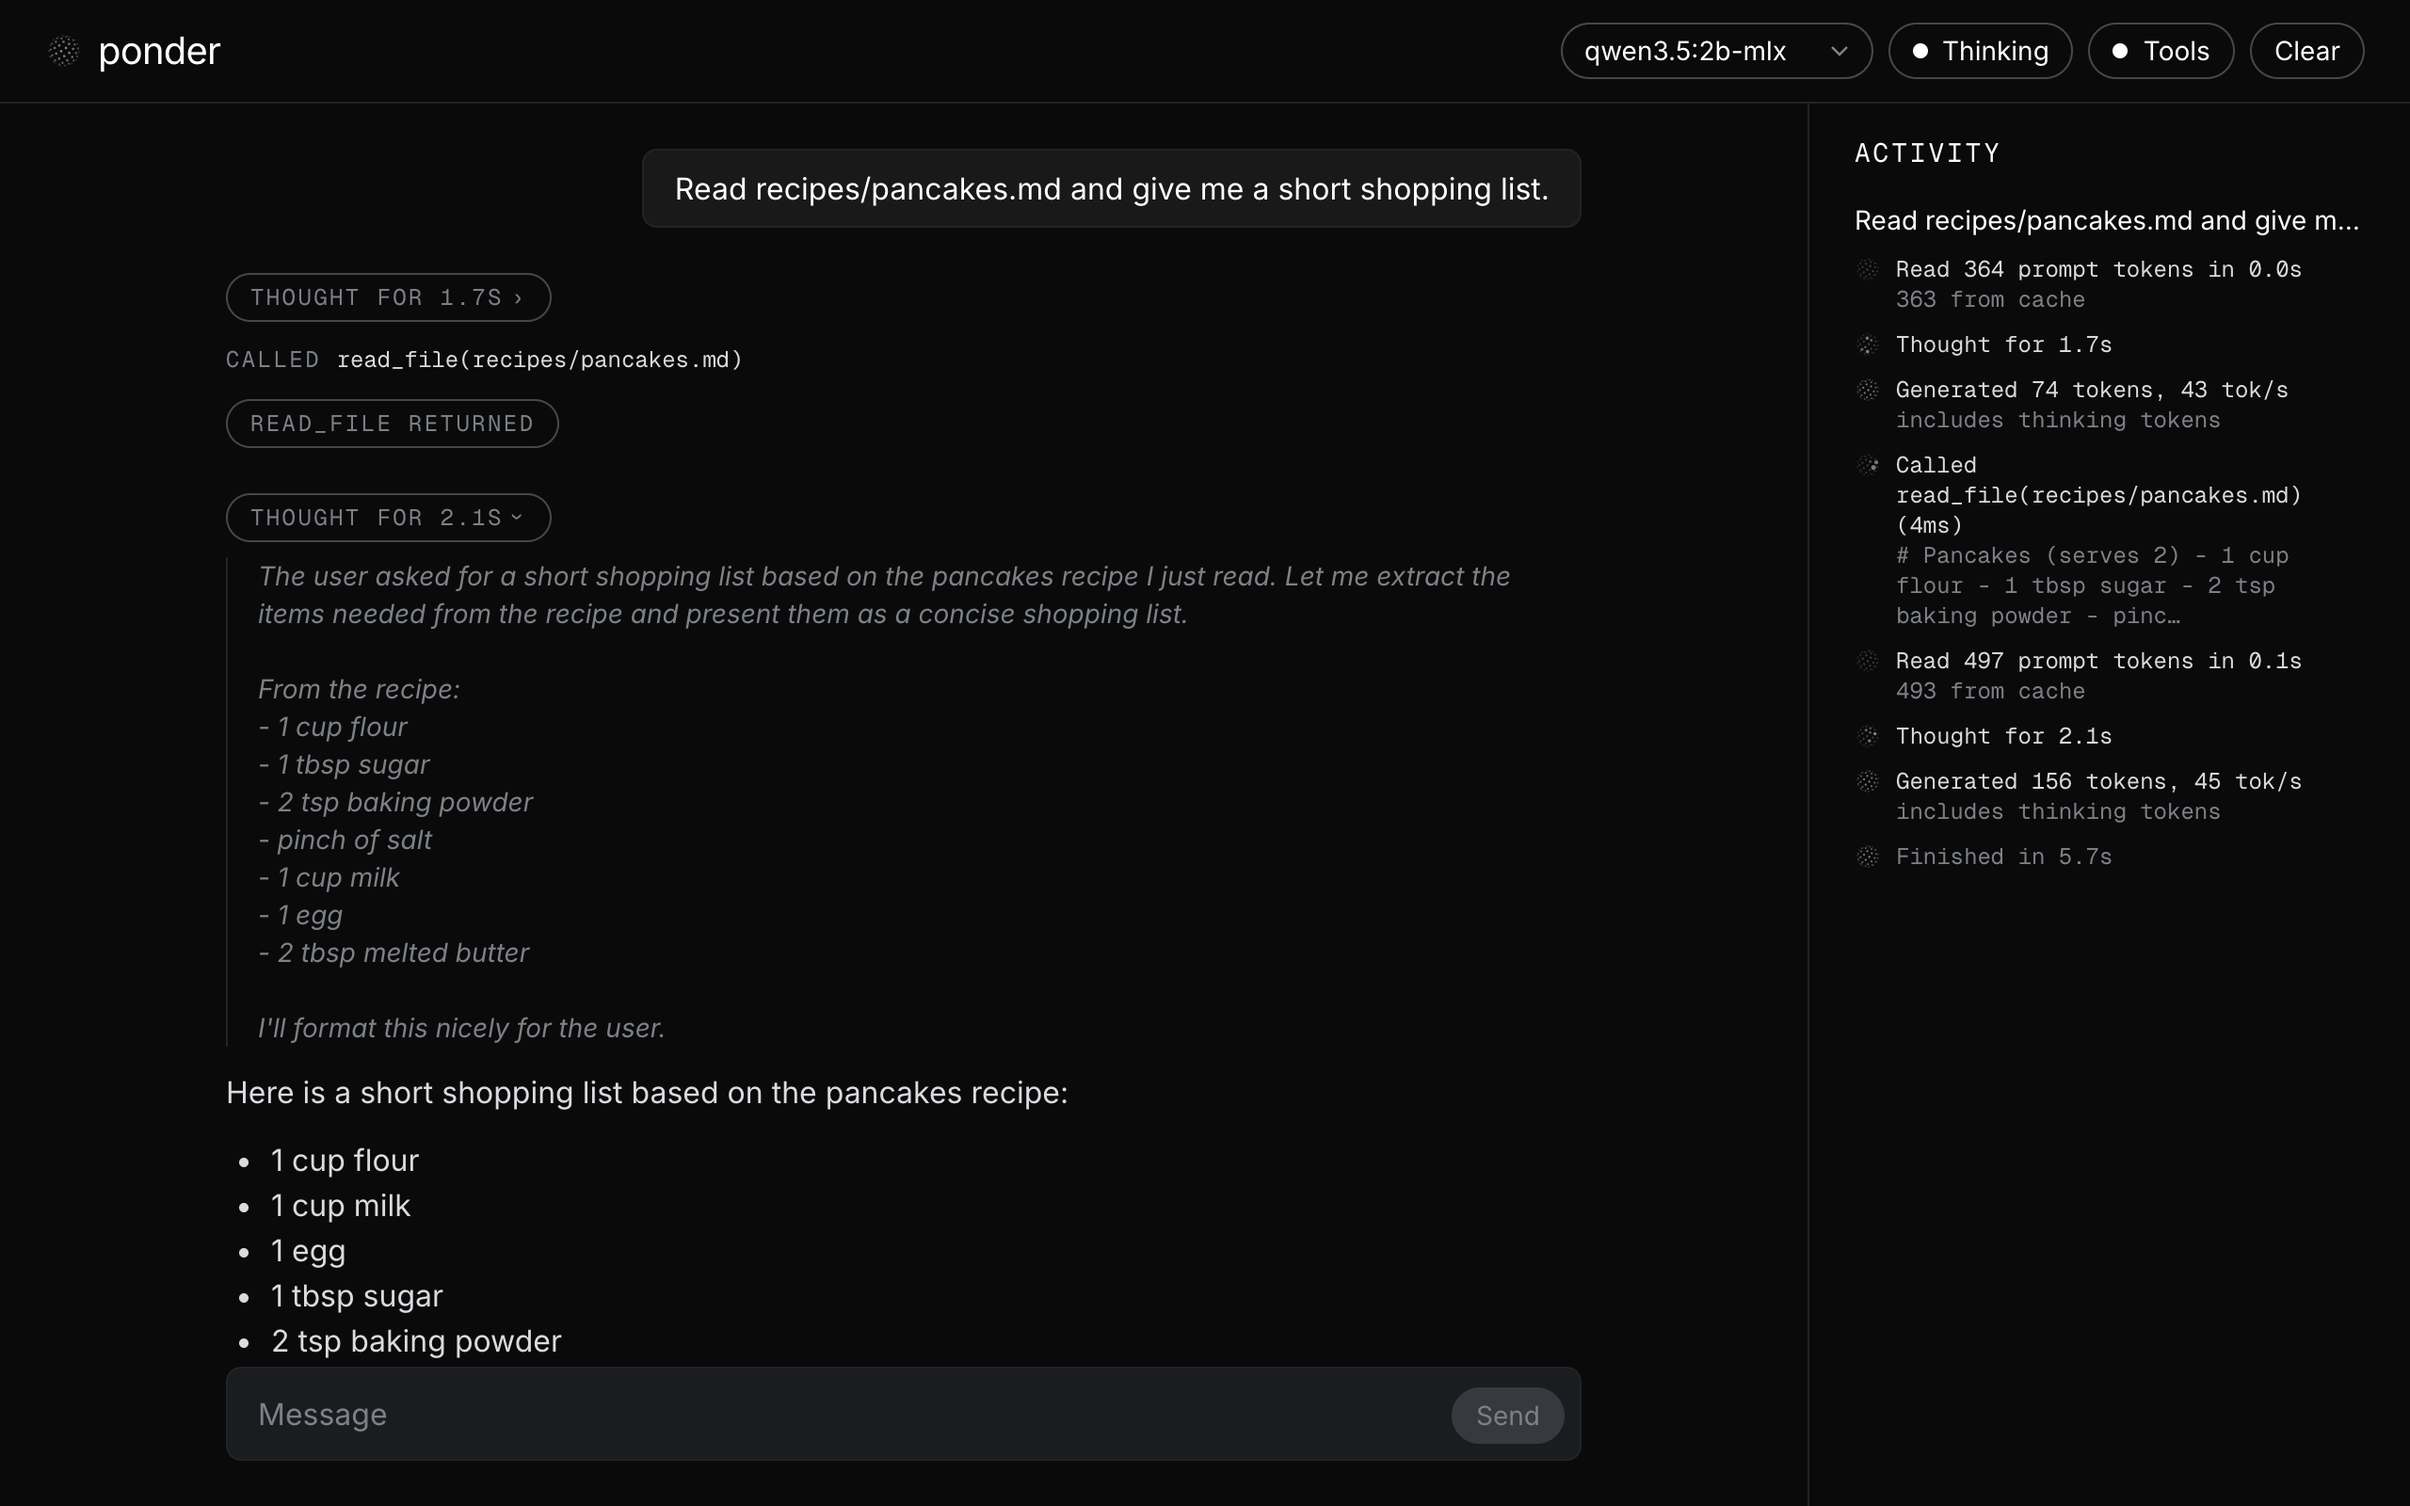
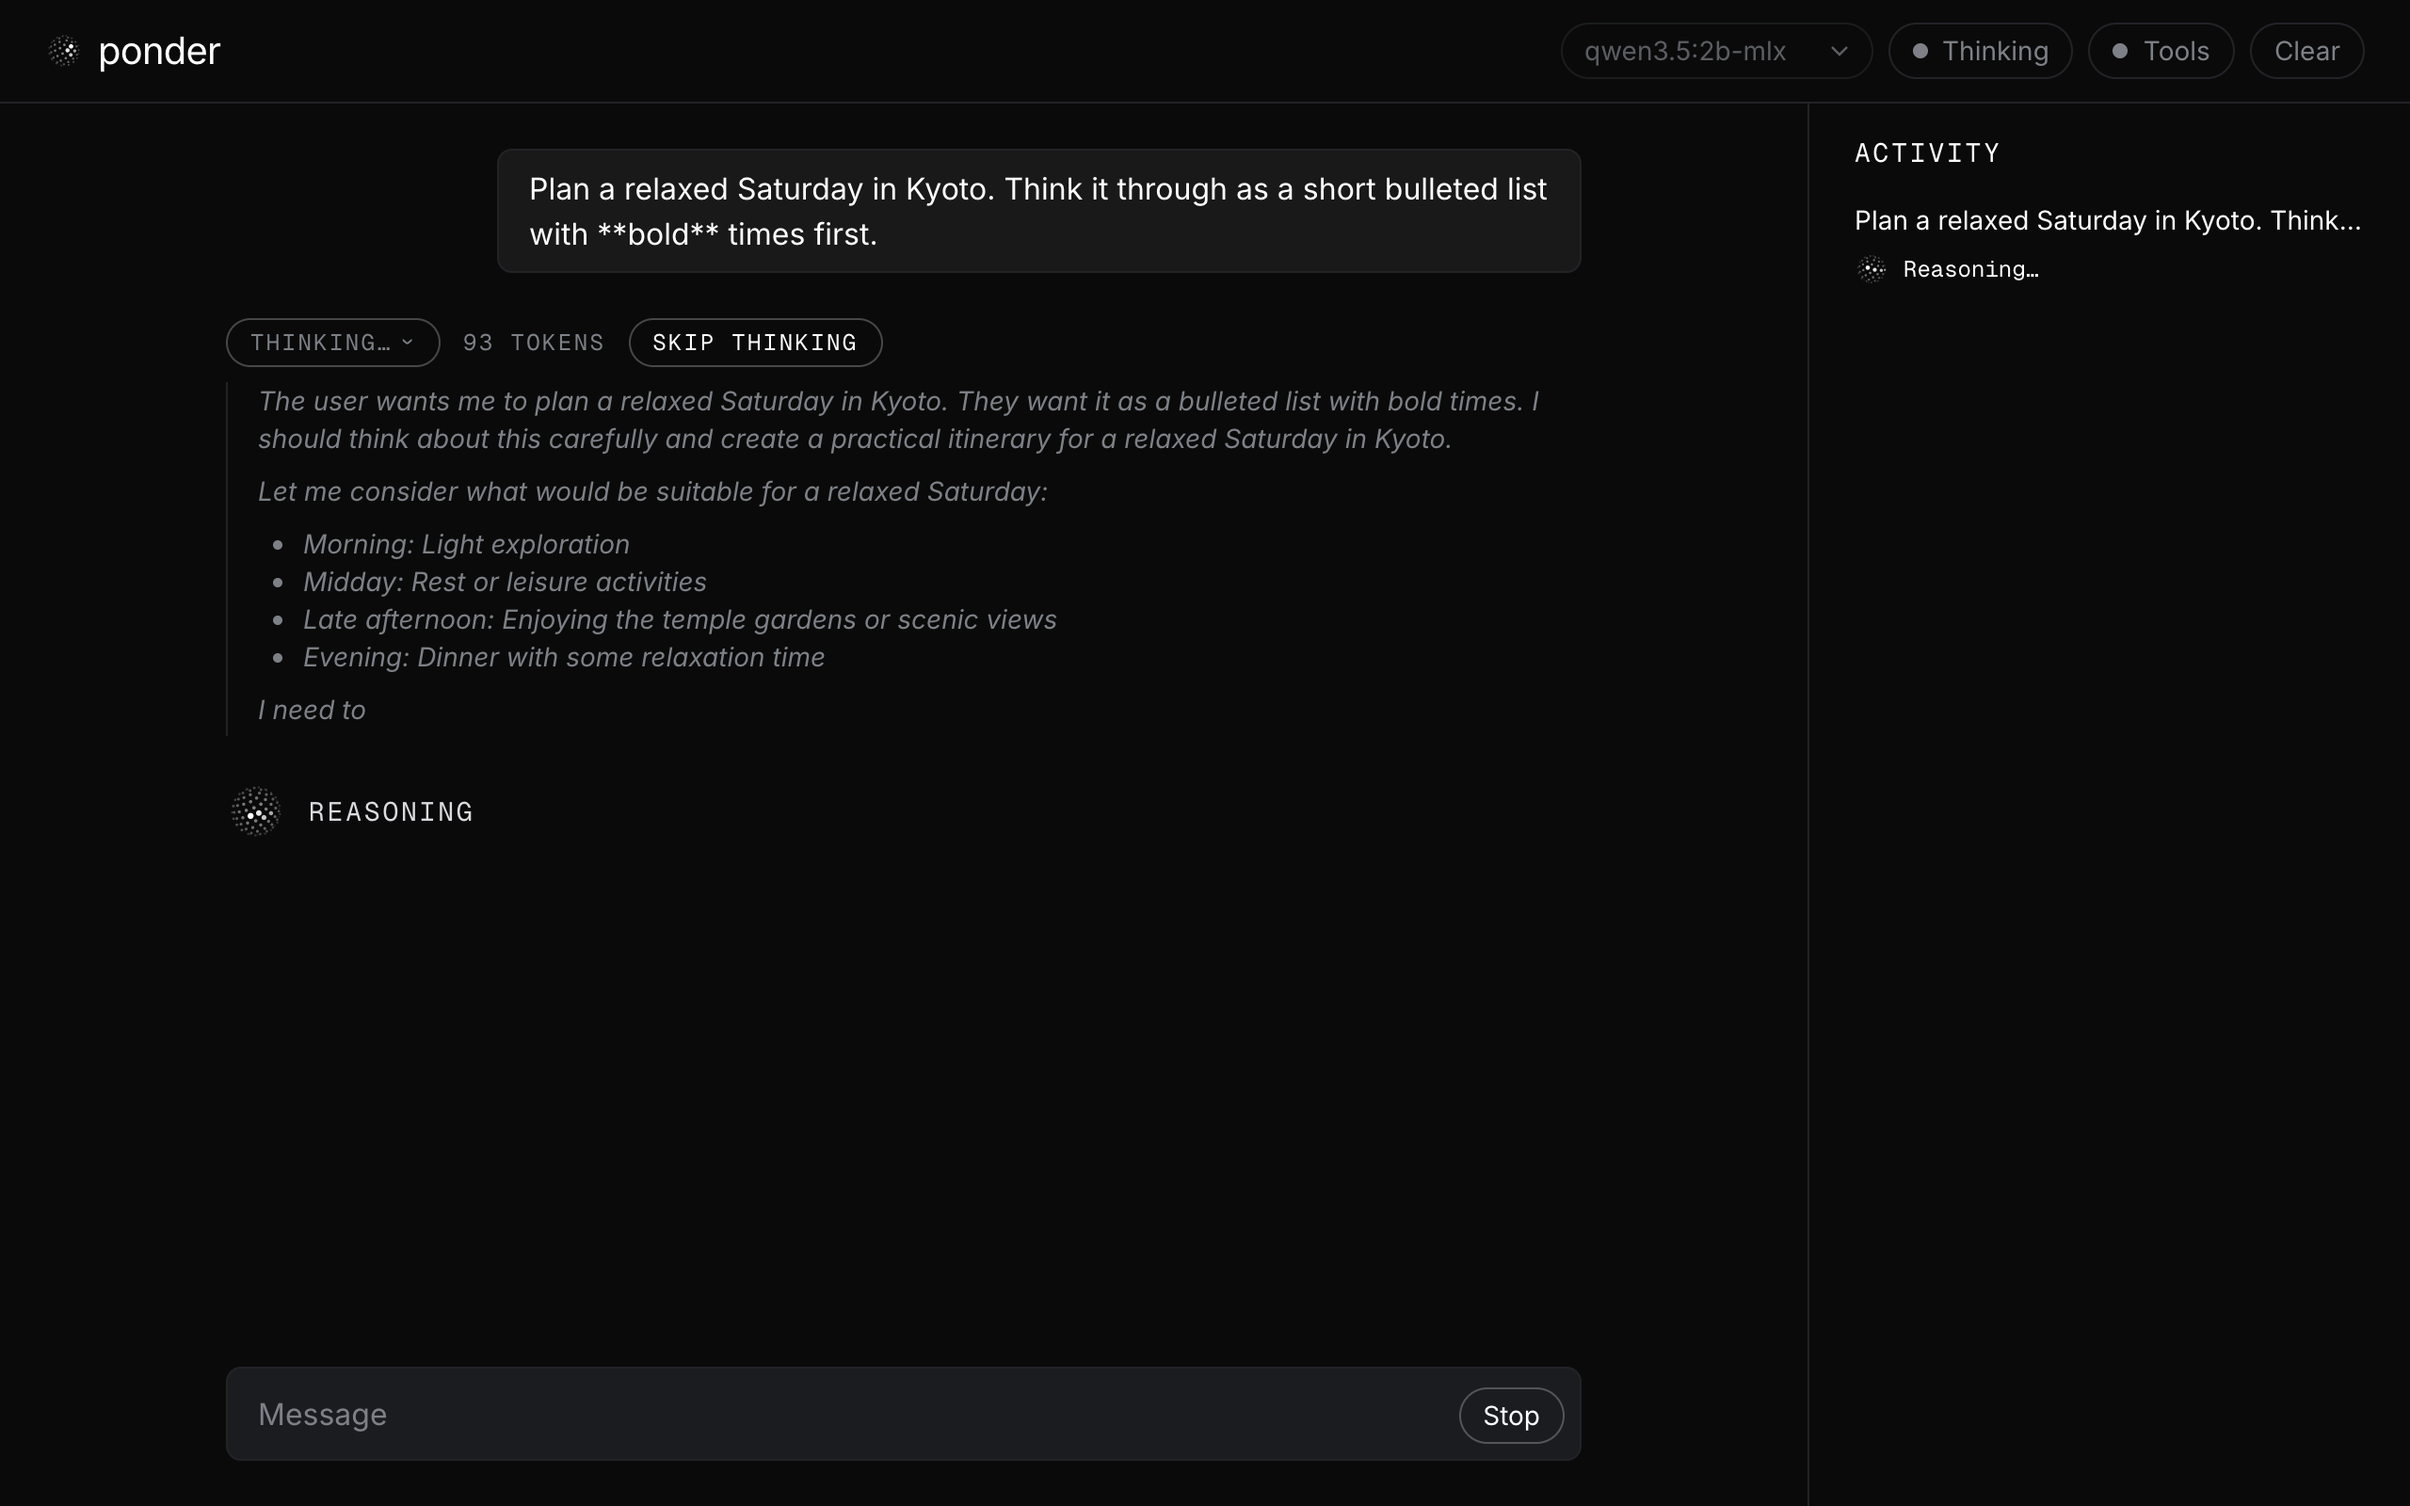
Rewrite the README for new users
What ponder is, a fresh screenshot of a turn mid-Reasoning, requirements,
install in three commands, features, orb states, the Thinking and Tools
toggles, the loop guard, and a Limits section.

diff --git a/README.md b/README.md
@@ -1,52 +1,53 @@
 # ponder
 
-A small local chat client for [Ollama](https://ollama.com) models. It uses
-[Thinking Orbs](https://thinkingorbs.com) (`@yogesharc/thinking-orbs`) to show
-what the model is doing. Every orb change comes from a real event in Ollama's
-`/api/chat` stream. Nothing runs on a timer.
+A small local chat client for [Ollama](https://ollama.com) that shows what the model is doing, live, with [Thinking Orbs](https://thinkingorbs.com).
 
-![ponder answering from a sandbox file, with its thinking open and the Activity panel on the right](docs/screenshot.png)
-
-- Streams replies from `/api/chat`, with a **Thinking** toggle (the `think` param)
-  and the model's thinking shown in a collapsible block above the answer
-- Model picker filled from `/api/tags`. The Thinking and Tools toggles follow
-  each model's reported `capabilities`
-- Stop button (aborts the request)
-- **Activity** panel that logs each turn: model load time, prompt tokens,
-  how long it thought, tool calls, and tokens/sec, all taken from the stream's
-  own fields
-- Two tools with a full call loop (the model asks, ponder runs the tool, the
-  result goes back, the model continues):
-  - `get_time`: the local time, computed in the browser
-  - `read_file`: reads a file from `./sandbox`, served by a small Vite
-    dev-server endpoint that refuses any path outside that folder
+![ponder mid-Reasoning: the thinking block renders a list as it streams, with a live token count and a Skip thinking button, and the Activity panel on the right](docs/screenshot.png)
 
 ## Requirements
 
-- Ollama running locally at `http://localhost:11434`
-  (`ollama serve`, or the Ollama app)
-- A model, e.g. `ollama pull qwen3.5:2b-mlx` (the default)
-- Node 20+
+- Node 20.19+ or 22.12+
+- Ollama running locally at `http://localhost:11434` (`ollama serve`, or the Ollama app)
+- At least one model pulled. The default is `qwen3.5:2b-mlx`:
+  `ollama pull qwen3.5:2b-mlx`. If it isn't installed, ponder picks the first
+  model you have.
 
-## Run
+## Install and run
 
 ```bash
+git clone https://github.com/swayyaam/ponder.git && cd ponder
 npm install
 npm run dev
 ```
 
-Open http://localhost:5173. To point at a different Ollama, set `OLLAMA_URL`:
-
-```bash
-OLLAMA_URL=http://192.168.1.20:11434 npm run dev
-```
+Open http://localhost:5173. To use an Ollama on another machine, start it with
+`OLLAMA_URL=http://192.168.1.20:11434 npm run dev`.
 
 The browser never talks to Ollama directly. Vite proxies `/ollama/*` to it, so
-there are no CORS issues. `npm run build && npm run preview` works too, since
-the proxy and the sandbox endpoint run in preview mode as well. ponder needs one
-of the two: a static `dist/` on its own has no proxy and no `read_file`.
+there are no CORS issues.
 
-## Orb states
+## Features
+
+- Streams replies from `/api/chat`. Answers and the model's thinking render as
+  markdown and are revealed smoothly, a few characters per frame
+- Model picker filled from `/api/tags`. The Thinking and Tools toggles follow
+  each model's reported `capabilities`
+- Collapsible thinking block with a live token count. It opens while the model
+  thinks, stays open while the answer streams below it, and folds when you send
+  the next message
+- Stop button, which aborts the request, and Clear, which resets the chat
+- **Activity** panel that logs each turn: model load time, prompt tokens, how
+  long it thought, tool calls, tokens/sec, and loop guard retries, all taken
+  from the stream's own fields
+- Two tools with a full call loop (the model asks, ponder runs the tool, the
+  result goes back, the model continues):
+  - `get_time`: the local time, computed in the browser
+  - `read_file`: reads a file from `./sandbox`
+- A loop guard that stops runaway thinking and retries without it (see below)
+
+### Orb states
+
+Every orb change comes from a real event in the stream. Nothing runs on a timer.
 
 | What the stream is doing | How ponder detects it | Orb |
 | --- | --- | --- |
@@ -54,61 +55,70 @@ of the two: a static `dist/` on its own has no proxy and no `read_file`.
 | Thinking | Chunk has a non-empty `message.thinking` | `reasoning` |
 | Tool call in progress | Chunk has `message.tool_calls`. Lasts while the tool runs and until the model's first chunk after it gets the result | `searching` |
 | Writing the answer | Chunk has a non-empty `message.content` | `base`, at 0.6× speed (the calmest orb) |
-| Done, stopped, or failed | Stream ended, request aborted, or an error came back | `base`, paused and dimmed. Errors are shown in the thread and the Activity panel |
+| Done, stopped, or failed | Stream ended, request aborted, or an error came back | `base`, paused and dimmed |
 
-The orb in the header always matches the current state. While a request runs,
-a status line with the orb and its label sits under the thread.
+The orb in the header always shows the current state. While a request runs, a
+larger orb and its label sit under the thread.
 
-### What the Activity panel reports
+### Thinking and Tools toggles
 
-All numbers come from the final `done: true` chunk, where Ollama reports
-durations in nanoseconds:
+- **Thinking** sends `think: true`, so models that can reason do it before
+  answering. It's disabled for models without the `thinking` capability.
+  Thinking text is shown but never sent back to the model as history.
+- **Tools** sends `get_time` and `read_file` with each request. It only appears
+  for models with the `tools` capability.
 
-- **Loaded** `<model>` (`load_duration`): shown when the model was cold, or
-  when loading took more than 0.5s
-- **Read N prompt tokens** (`prompt_eval_count`, `prompt_eval_duration`,
-  `prompt_eval_cached_count`)
-- **Thought for Xs**: the `created_at` gap between the first thinking chunk
-  and the first chunk after thinking ends
-- **Called** `tool(args)`: how long the tool took to run in ponder, plus a
-  preview of its result
-- **Generated N tokens, R tok/s** (`eval_count / eval_duration`). This count
-  includes thinking tokens
+ponder doesn't send sampling options (temperature, top_p and so on), so every
+model runs with the settings its own Modelfile recommends.
 
-## Tools
+### Loop guard
 
-Tools are sent only when the selected model lists `tools` in its capabilities.
-`qwen3.5:2b-mlx` does, and handles both tools fine. With thinking off, small
-models sometimes guess file names. A failed tool call goes back to the model as
-an error message, so it can recover.
+Small reasoning models sometimes think forever. ponder watches the thinking as
+it streams and stops it when either of these happens:
 
-`read_file` calls `GET /api/sandbox?path=...`, defined in
-[`server/sandbox.ts`](server/sandbox.ts). The endpoint:
+- **Looping**: the same block of text (a 40+ character run) repeats 3 times in
+  a row. List items that share a phrase but differ elsewhere don't count.
+- **Over budget**: thinking passes 3000 tokens or 90 seconds.
 
-- reads only from `./sandbox`. A leading `/` counts as the sandbox root, and
-  `.`, `/` or `*` list the folder
-- rejects `..` traversal, absolute paths that escape, and symlinks that point
-  outside the folder (403)
-- caps reads at 64 KB
+You can also press **Skip thinking** while the model is reasoning.
 
-Put your own files in `./sandbox` to let the model read them.
+When it trips, ponder aborts the request, keeps the partial thinking open and
+marks it "stopped: looping", "stopped: over budget" or "stopped: skipped", then
+retries the same turn once with thinking off so you still get an answer. The
+Activity panel logs the retry, for example "Thinking looped, retried without
+thinking".
 
-## Notes
+Every request also sends `num_predict: 8192`, so no single response can run
+unbounded. The limits are constants in [`src/loopGuard.ts`](src/loopGuard.ts).
 
-- If Ollama isn't running you'll see: "Can't reach Ollama at
-  http://localhost:11434. Start Ollama with `ollama serve`." Click Retry once
-  it's up.
-- History is kept in memory for the session (Clear resets it). Thinking text
-  isn't sent back to the model.
+## Limits
 
-## Design
+- **Dev server only.** ponder runs through Vite: `npm run dev`, or
+  `npm run preview` after `npm run build`. There's no standalone production
+  server. A static `dist/` on its own has no Ollama proxy and no `read_file`.
+- **`read_file` is restricted to `./sandbox`.** The endpoint
+  ([`server/sandbox.ts`](server/sandbox.ts)) rejects `..`, absolute paths that
+  escape and symlinks that point outside the folder, and caps reads at 64 KB.
+  Put your own files in `./sandbox` to let the model read them.
+- **Tested on macOS with MLX models** (`qwen3.5:2b-mlx`, `qwen3.5:0.8b-mlx`,
+  `gemma4:e2b-mlx`) on Apple Silicon. Other platforms and GGUF models should
+  work but haven't been tested.
+- History lives in memory for the session. Reloading the page or pressing
+  Clear starts over.
+
+## Development
+
+```bash
+npm test          # unit tests (vitest)
+npm run lint      # oxlint
+npx tsc -b        # type-check
+npm run build
+```
 
 The look follows [`DESIGN.md`](DESIGN.md), dark variant. Every color, type
-size, spacing step and radius is a CSS variable in
-[`src/styles/theme.css`](src/styles/theme.css), and the components only read
-those variables. The design's display face is proprietary, so ponder uses
-Inter, the substitute DESIGN.md names, and Geist Mono for labels. Both are
-self-hosted, weight 400 only. The orbs are the only animated element.
+size, spacing step, radius and orb size is a CSS variable in
+[`src/styles/theme.css`](src/styles/theme.css). The orbs are the only animated
+element.
 
 ## License
 
